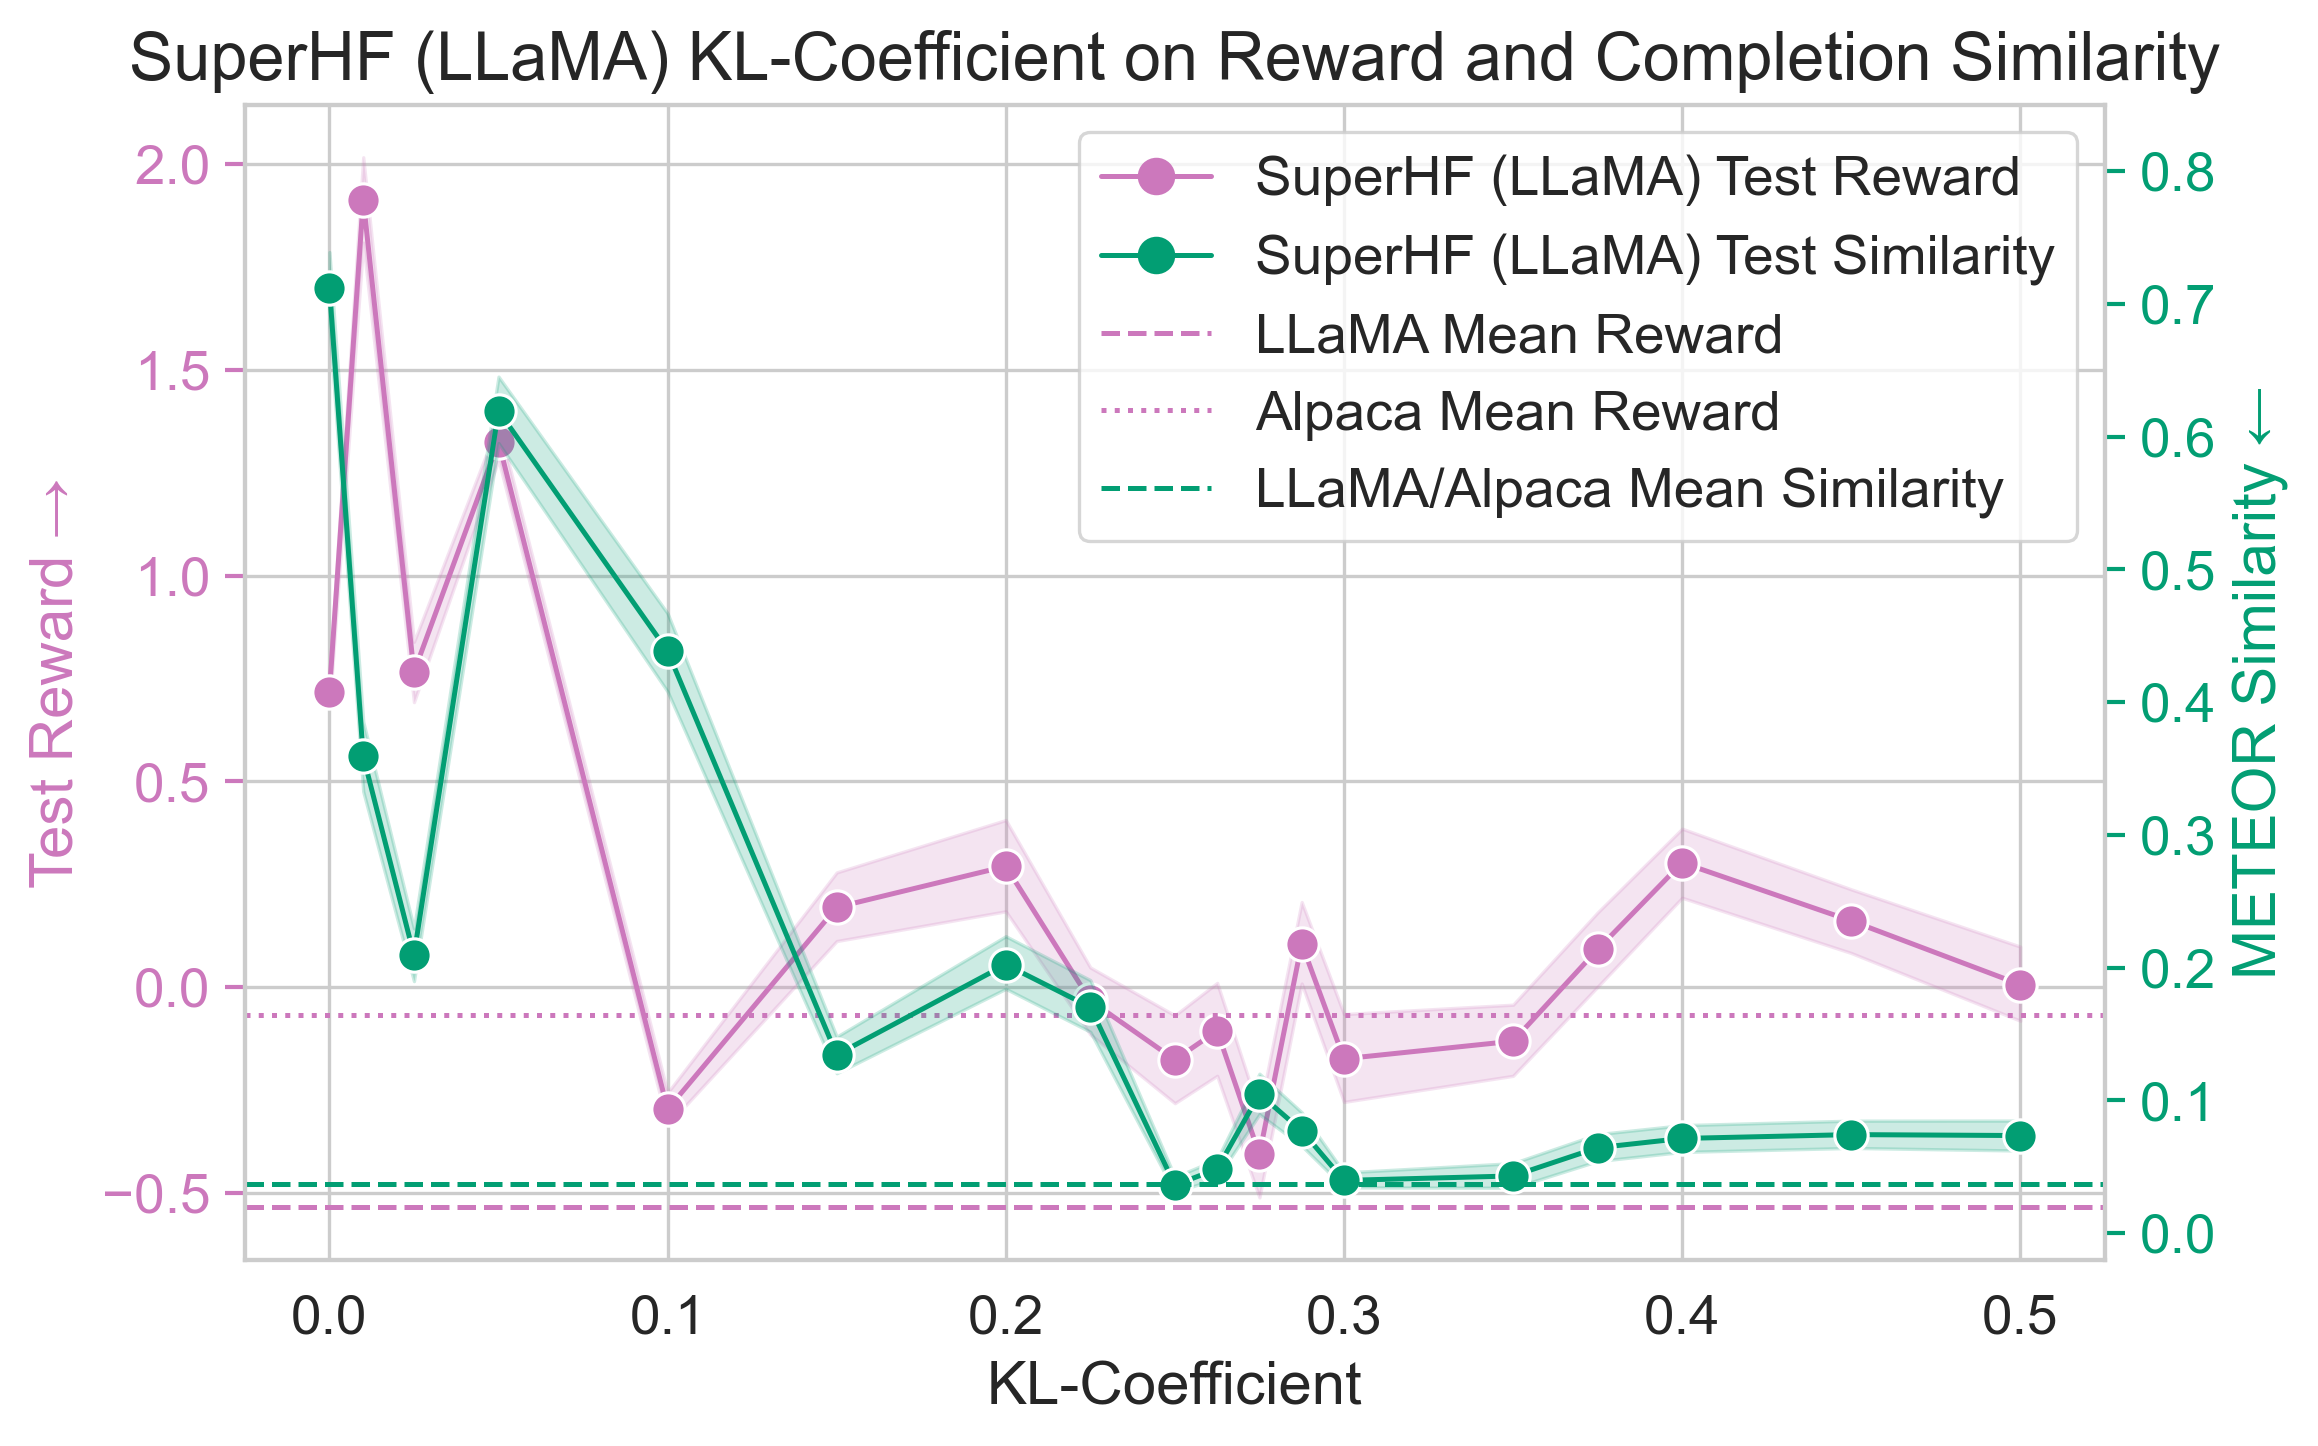
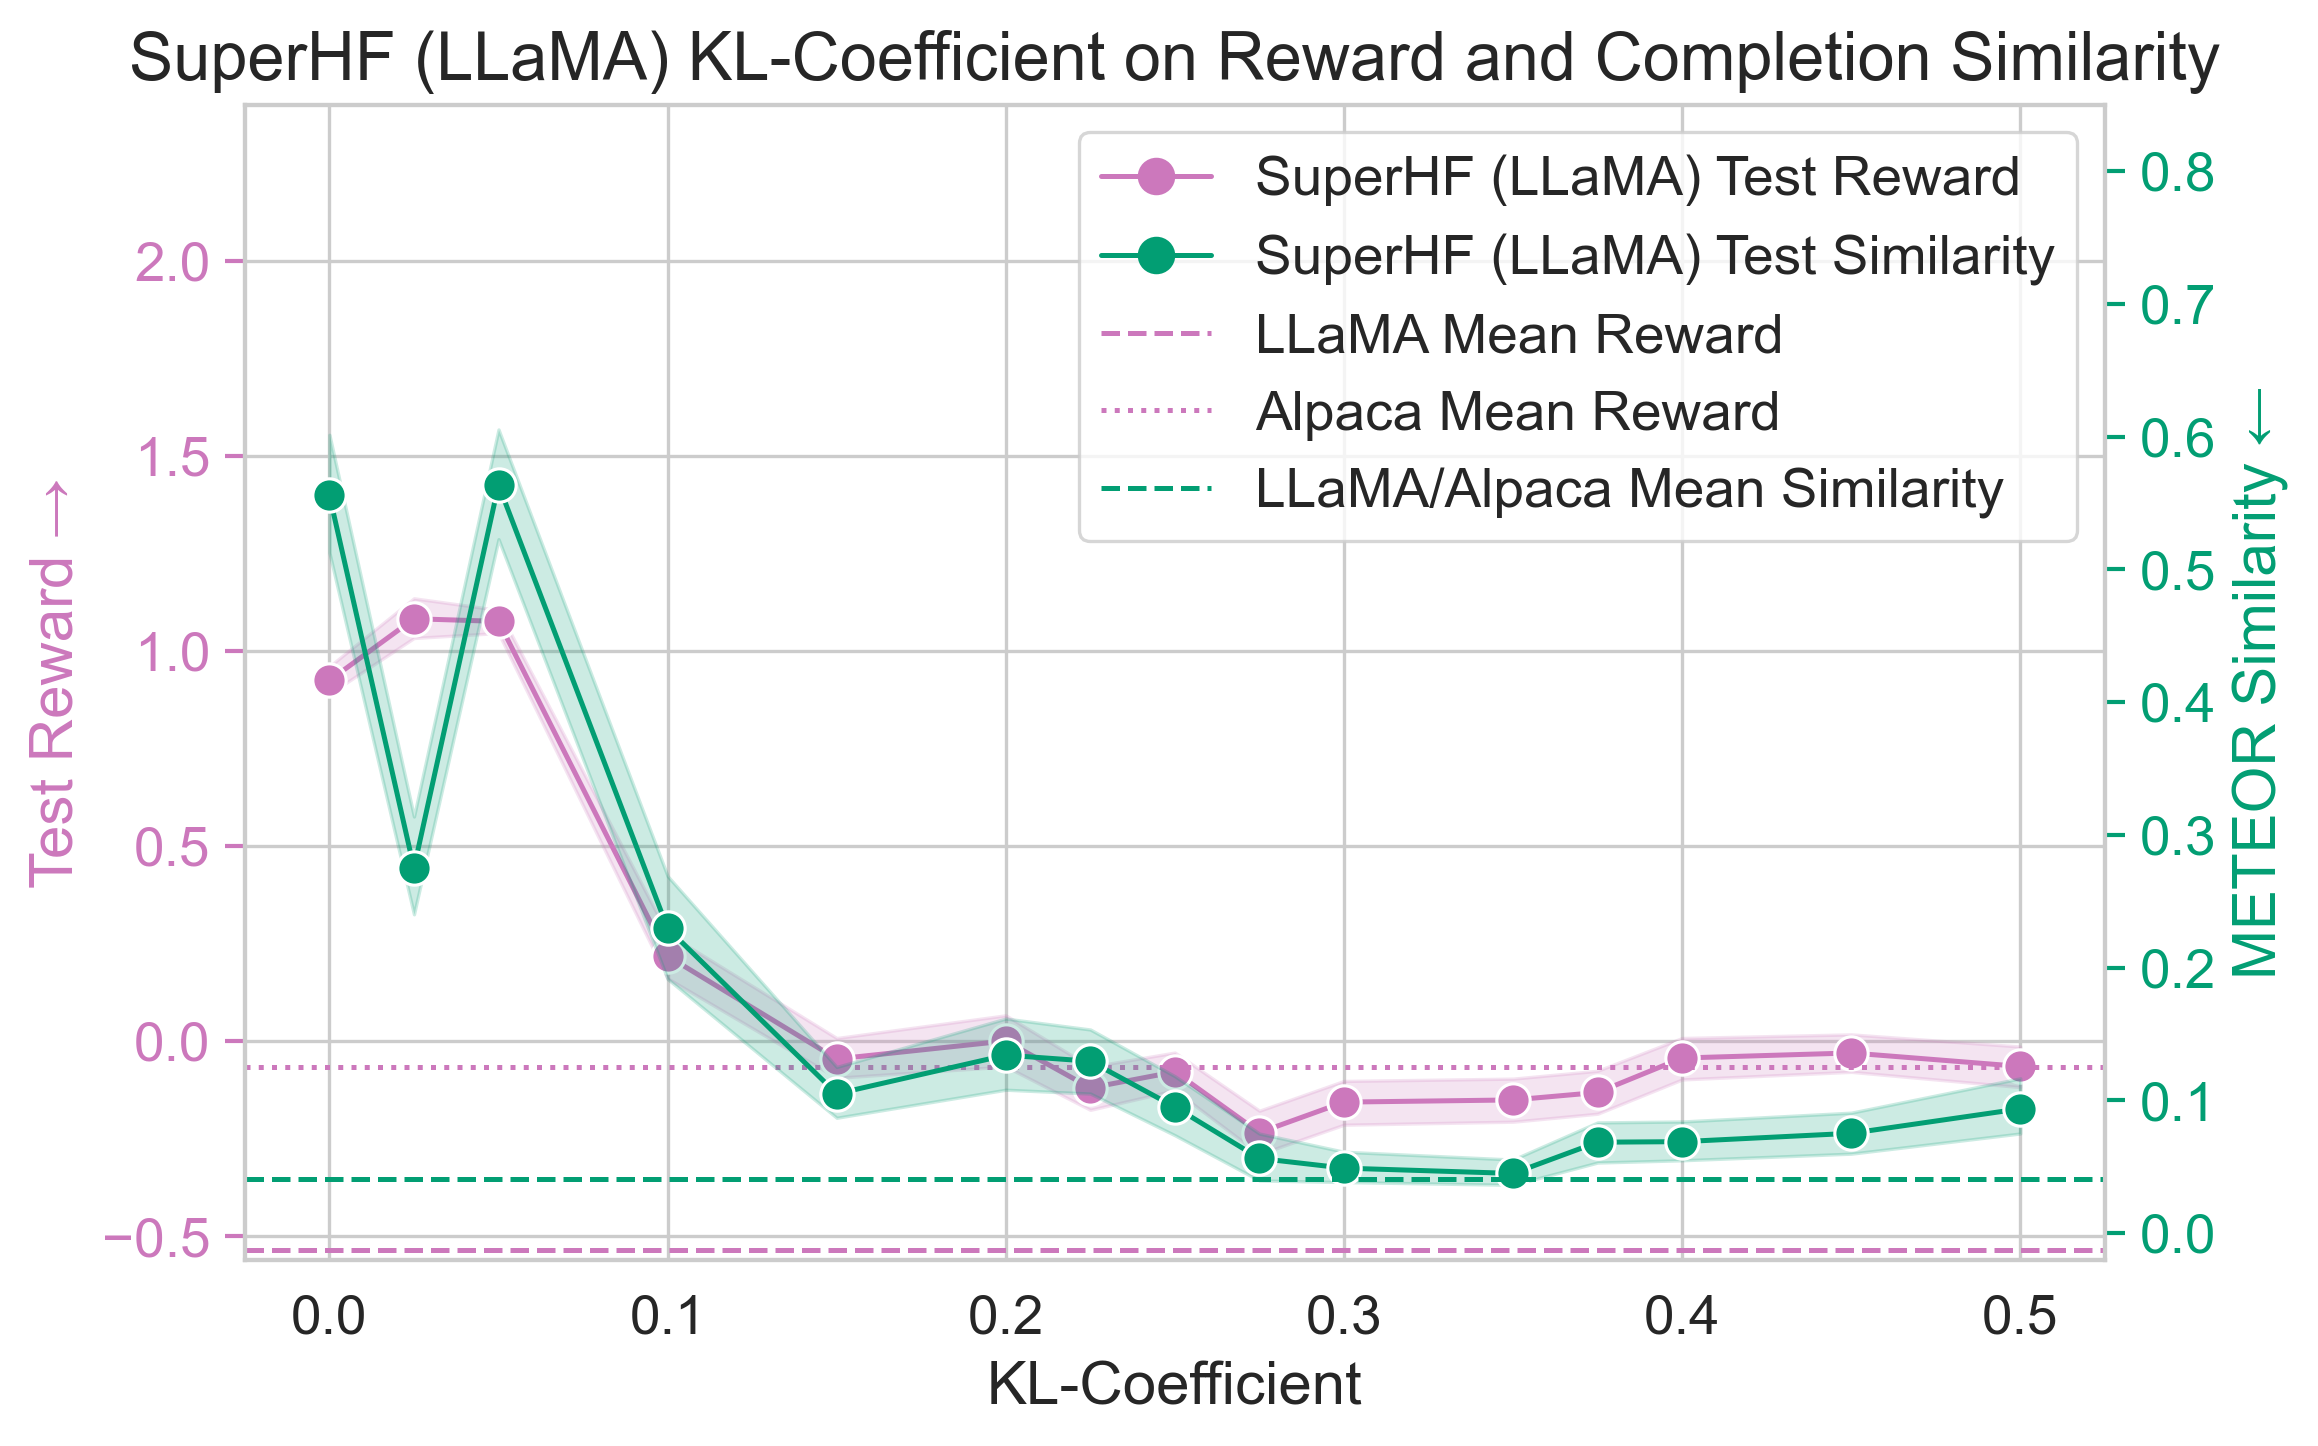
Update graphs a bit

diff --git a/charts/kl_meteor_similarity.py b/charts/kl_meteor_similarity.py
@@ -19,7 +19,7 @@ from chart_utils import (
 )
 from superhf.utils import bootstrap_meteor_similarity_from_completions
 
-INSTRUCT_NOT_LLAMA = True  # Swap between generating 2 types of charts
+INSTRUCT_NOT_LLAMA = False  # Swap between generating 2 types of charts
 OUTPUT_FILE = (
     "./charts/ablations/kl_meteor_similarity_instruct.png"
     if INSTRUCT_NOT_LLAMA
@@ -27,7 +27,41 @@ OUTPUT_FILE = (
 )
 TEST_COMPLETIONS_DIRECTORY = "./experiments/evaluations/test_completions/"
 TEST_SCORES_DIRECTORY = "./experiments/evaluations/test_scores/"
-NUM_BOOTSTRAP_SAMPLES = 100
+NUM_BOOTSTRAP_SAMPLES = 16
+model_types_to_file_name_templates = {
+    "SuperHF": (
+        [
+            "shf-v4-llama-instruct-10k-kl-",
+            "shf-v4-instruct-s1-10k-kl",
+            "shf-v4-instruct-s2-10k-kl",
+            "shf-v4-instruct-s3-10k-kl",
+        ]
+        if INSTRUCT_NOT_LLAMA
+        else [
+            "shf-v4-llama-10000-kl-",
+            "shf-v4-llama-s1-10k-kl",
+            "shf-v4-llama-s2-10k-kl",
+            "shf-v4-llama-s3-10k-kl",
+        ]
+    )
+}
+kl_values = [
+    0.0,
+    0.025,
+    0.05,
+    0.1,
+    0.15,
+    0.2,
+    0.225,
+    0.25,
+    0.275,
+    0.3,
+    0.35,
+    0.375,
+    0.4,
+    0.45,
+    0.5,
+]
 
 
 def get_rewards_and_similarity(file_name: str) -> tuple[list[float], list[float]]:
@@ -53,13 +87,6 @@ def main() -> None:
     color_similarity = model_type_to_palette_color("ftp")
 
     # Define the model sizes and their corresponding file names
-    model_types_to_test_names = {
-        "SuperHF": (
-            "shf-v4-llama-instruct-10k-kl-"
-            if INSTRUCT_NOT_LLAMA
-            else "shf-v4-llama-10000-kl-"
-        )
-    }
 
     # Compute LLaMA's, Instruct's, and Alpaca's mean reward and similarity
     llama_rewards, llama_meteor_scores = get_rewards_and_similarity("llama-7b.json")
@@ -88,19 +115,26 @@ def main() -> None:
     # Find all the files in the test scores directory
     file_names = []
     last_model_type = None
-    last_filename_template = None
-    for model_type, file_name_template in model_types_to_test_names.items():
-        for file_name in os.listdir(TEST_SCORES_DIRECTORY):
-            if file_name.startswith(file_name_template):
-                file_names.append(file_name)
-                last_model_type = model_type
-                last_filename_template = file_name_template
-    print(f"Found {len(file_names)} files with the template {last_filename_template}")
+    for model_type, file_name_templates in model_types_to_file_name_templates.items():
+        for template in file_name_templates:
+            intermediate_file_names = []
+            for file_name in os.listdir(TEST_SCORES_DIRECTORY):
+                if file_name.startswith(template):
+                    intermediate_file_names.append(file_name)
+                    last_model_type = model_type
+            print(
+                f"Found {len(intermediate_file_names)} files with the template"
+                f" {template}"
+            )
+            file_names.extend(intermediate_file_names)
     file_names.sort()
     reward_data = []
     meteor_data = []
     for file_name in tqdm(file_names, desc="Models"):
         kl_coefficient = float(file_name.split("-")[-1].split(".json")[0])
+        if kl_coefficient not in kl_values:
+            print(f"Skipping {file_name} with KL coefficient {kl_coefficient}")
+            continue
         rewards, meteor_scores = get_rewards_and_similarity(file_name)
         labeled_rewards = [
             [last_model_type, kl_coefficient, score] for score in rewards
@@ -251,6 +285,7 @@ def main() -> None:
     ax1.legend()
 
     # Nudge the similarity axis bounds so the llama reward and similarity lines don't overlap
+    ax1.set_ylim(-0.56, 2.4)
     ax2.set_ylim(-0.02, 0.85)
 
     # Save the plot

diff --git a/charts/model_comparsions.py b/charts/model_comparsions.py
@@ -28,27 +28,36 @@ def main() -> None:
     # Define the model names
     model_names = [
         "llama-7b.json",
-        "rlhf-v4-llama.json",
-        "shf-llama-7b.json",
+        "llama-ftp-49516.json",
+        "llama-instruct-12379.json",
+        # "rlhf-v4-llama.json",
+        "rlhf-v5-llama@step-00384.json",
+        "rlhf-retro-llama@step-00512.json",
+        "shf-v4-llama-10000-kl-0.35.json",
+        "shf-v5-llama-ftp-24758-rm-0.5.json",
+        "shf-v4-llama-instruct-10k-kl-0.35.json",
         "alpaca_7b.json",
-        "sft-on-preferences-v1.json",
+        # "sft-on-preferences-v1.json",
         # "test-save-alpaca@model-2048-prompts-batch-size-8.json",
-        "rlhf-v3-lr-5.0e-6-batch-16@gold-run.json",
-        "shf-7b-default.json",
+        # "rlhf-v3-lr-5.0e-6-batch-16@gold-run.json",
+        # "shf-7b-default.json",
         # "shf-7b-gold-v1.json",
-        "gpt-4_2023-05-13_completions_output.json",
+        # "gpt-4_2023-05-13_completions_output.json",
     ]
 
     # Create an empty list for x-axis labels
     x_labels = [
         "LLaMA",
-        "RLHF\n(LLaMA)",
+        "FTP\n(LLaMA)",
+        "Instruct\n(LLaMA)",
+        "RLHF\n(LLaMA)\nv5",
+        "RLHF\n(LLaMA)\nRetro",
         "SuperHF\n(LLaMA)",
+        "SuperHF\n(FTP)",
+        "SuperHF\n(Instruct)",
         "Alpaca",
-        "FTP\n(Alpaca)",
-        "RLHF\n(Alpaca)",
-        "SuperHF\n(Alpaca)",
-        "GPT-4",
+        # "SuperHF\n(Alpaca)",
+        # "GPT-4",
     ]
 
     # Calculate plot values for data
@@ -98,7 +107,7 @@ def main() -> None:
 
     # Horizontal line at Alpaca
     plt.axhline(
-        y=all_mean_scores[3], color="black", linestyle="--", label="Alpaca Mean"
+        y=all_mean_scores[8], color="black", linestyle="--", label="Alpaca Mean"
     )
     plt.legend()
 
